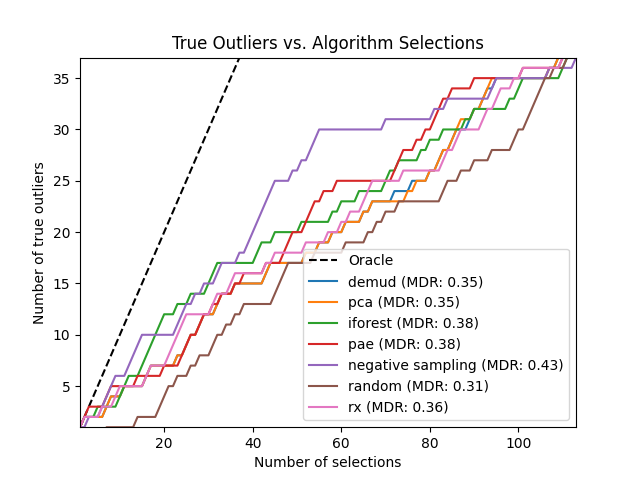
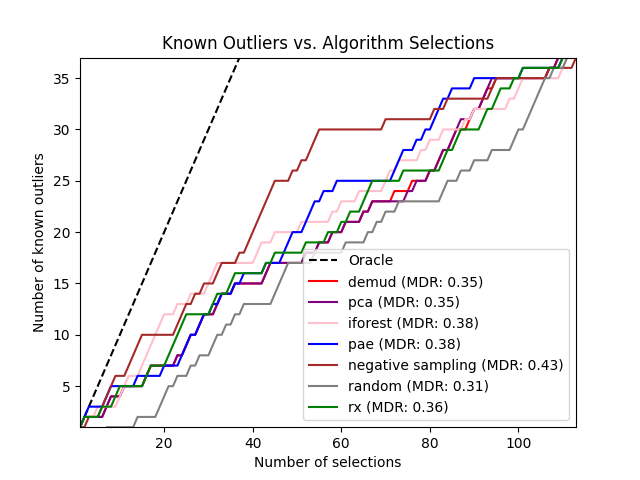
Specify colors to use for each algorithm so they are consistent across datasets. #53

diff --git a/dora_exp_pipeline/combined_plot_script.py b/dora_exp_pipeline/combined_plot_script.py
@@ -2,6 +2,16 @@ import os
 import matplotlib.pyplot as plt
 import argparse
 
+alg_colors = {
+                'demud': 'red',
+                'pca': 'purple',
+                'iforest': 'pink',
+                'pae': 'blue',
+                'negative sampling': 'brown',
+                'random': 'gray',
+                'rx': 'green',
+                'lrx': 'orange'
+             }
 
 def alg_indexes(filename):
     with open(filename, 'r') as f:
@@ -97,11 +107,13 @@ def combine_plots(resultsdir, label_path, precision_at_n):
         if precision_at_n:
             print(labels[i])
             x, y = get_precision_curve(scores, validationLabels)
-            plt.plot(x, y, label="{}".format(labels[i]))
+            plt.plot(x, y, label="{}".format(labels[i]),
+                     color=alg_colors[labels[i]])
         else:
             x, y = get_selections_curve(scores, validationLabels)
             area = sum(y)/sum([i for i in range(len(scores))])
-            plt.plot(x, y, label="{} (MDR: {:.2f})".format(labels[i], area))
+            plt.plot(x, y, label="{} (MDR: {:.2f})".format(labels[i], area),
+                     color=alg_colors[labels[i]])
 
     axes.set_xlim(1, len(scores))
     plt.legend()
